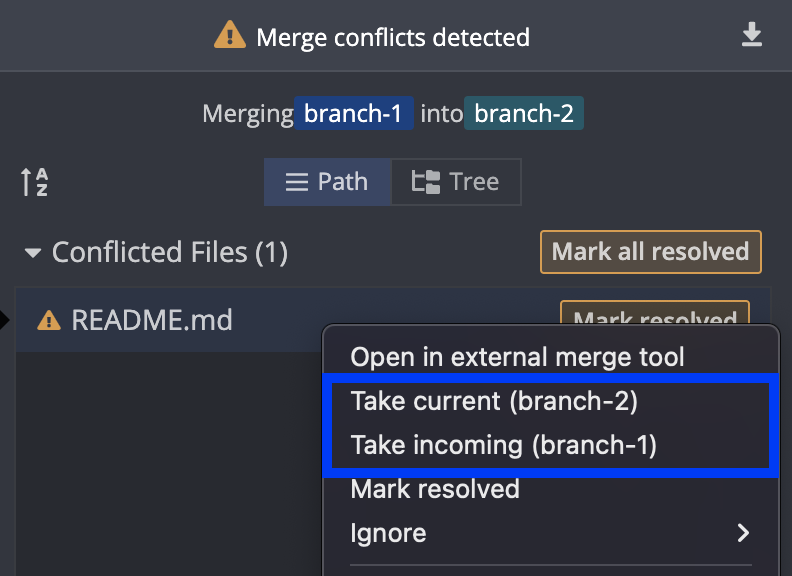
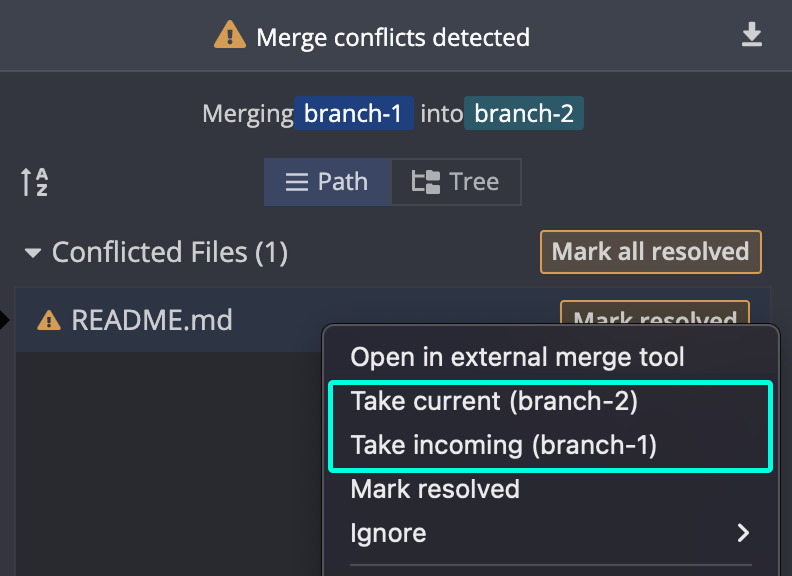
Updated merged images and copy edits

Changed region(s): [[0.3939, 0.625, 1.0, 0.8438]]

diff --git a/gitkraken-desktop/branching-and-merging.md b/gitkraken-desktop/branching-and-merging.md
@@ -13,23 +13,24 @@ Learn how to branch and merge in GitKraken Desktop. 🌳 🔀
     <iframe width='560' height='315' src='https://www.youtube.com/embed/8-qRKyy-v7I?rel=0&vq=hd1080' frameborder='0' allowfullscreen></iframe>
 </div>
 
+
 Looking for a sharable summary? Learn about [how GitKraken solves merge conflicts](https://www.gitkraken.com/developer-problems/merge-conflicts).   
 
 ***
 
 ## Branches
-When starting work on a new feature or bug, <a href="https://gitkraken.com/learn/git/problems/create-git-branch" target="_blank">create a new branch</a>. Right click on any existing commit to create a branch:
+When starting work on a new feature or bug, <a href="https://gitkraken.com/learn/git/problems/create-git-branch" target="_blank">create a new branch</a>. Right-click on any existing commit to create a branch:
 
 <img src="/wp-content/uploads/add-branch-2025.png" srcset="/wp-content/uploads/add-branch@2x.png 2x" class="img-bordered img-responsive center">
 
-A branch is a pointer to a specific commit in the repo, rather than making entire copies of the working directory files.
+A branch is a pointer to a specific commit in the repo.
 
-Branches allow you to isolate new work from other areas of the repository, and consider implementing <a href="/git-workflows-and-extensions/git-flow">GitFlow</a> as a merging strategy.
+Branches allow you to isolate new work from other areas of the repository, and interact with other collaborators. If you're looking for direction,consider implementing <a href="/git-workflows-and-extensions/git-flow">GitFlow</a> as a merging strategy.
 
 ### Checking out branches
 Branch checkout updates files in the working directory to reflect the version defined by that branch.
 
-New commits are added to the checked out branch. If you find yourself on the wrong branch, <a href="/gitkraken-desktop/stashing">stash</a> your changes, switch to the correct branch, and then *pop* the stash.
+New commits are added to the currently checked out branch. If you find yourself on the wrong branch, <a href="/gitkraken-desktop/stashing">stash</a> your changes, switch to the correct branch, and then *pop* the stash.
 
 When you create a new branch, GitKraken Desktop will automatically checkout the branch for you:
 
@@ -38,11 +39,11 @@ When you create a new branch, GitKraken Desktop will automatically checkout the 
     <figcaption>Right click to create a new branch.</figcaption>
 </figure>
 
-To checkout a different branch, double click on the branch label on the left panel or via the graph.  Checkout is also available by right-clicking a branch.
+To checkout a different branch, double-click on the branch label on the Left Panel or via the Commit Graph.  Checkout is also available by right-clicking a branch.
 
 ### Rename a branch
 
-Rename a branch by right-clicking the branch tag in the Commit Graph (or right-click the branch in the branch list on the left panel) and selecting `Rename branch-name`.
+Rename a branch by right-clicking the branch tag in the Commit Graph (or right-click the branch in the branch list on the Left Panel) and selecting `Rename branch-name`.
 
 <img src="/wp-content/uploads/rename-branch.png" srcset="/wp-content/uploads/rename-branch@2x.png 2x" class="img-bordered img-responsive center">
 
@@ -53,9 +54,9 @@ For hardcore keyboard warriors, you can also rename a branch using the Command P
 Note: You can only rename the current branch you are on.
 ### Delete a branch
 
-To <a href="https://gitkraken.com/learn/git/problems/delete-local-git-branch" target="_blank">delete a branch</a>, right-click the branch and select `Delete {branch-name}`. You cannot delete a branch that is checked out.
+To <a href="https://gitkraken.com/learn/git/problems/delete-local-git-branch" target="_blank">delete a branch</a>, right-click the branch and select `Delete {branch-name}`. You cannot delete a branch that is checked out, so be sure to first checkout a different branch to then delete it. 
 
-To delete multiple local branches in the left panel, hold <kbd>Shift</kbd> then click to select a range of branches or hold <kbd>&#8984; | Ctrl</kbd>  then click to select specific branches. Then right-click to access the delete option.
+To delete multiple local branches in the Left Panel, hold <kbd>Shift</kbd> then click to select a range of branches or hold <kbd>&#8984; | Ctrl</kbd>  then click to select specific branches. Then right-click to access the delete option.
 
 <img src="/wp-content/uploads/multi-delete-branches.gif" class="img-bordered img-responsive center">
 
@@ -75,7 +76,7 @@ Drag and drop one branch onto another to initiate a merge, or just right click t
 <img src="/wp-content/uploads/merge-right.png" srcset="/wp-content/uploads/merge-right@2x.png" class="img-bordered img-responsive center">
 
 <div class='callout callout--warning'>
-    <p>Note 📝 - The In-app merge conflict output editor is only available with a <a href="https://gitkraken.com/pricing" target=_blank>Paid</a> license. </p>
+    <p>Note 📝 - The in-app merge conflict output editor is only available with a <a href="https://gitkraken.com/pricing" target=_blank>Paid</a> license. </p>
 </div>
 
 
@@ -113,7 +114,7 @@ Clicking the up and down arrows will move you to the next conflict.
 </div>
 
 <div class='callout callout--warning'>
-    <p>Note 📝 - The In-app merge conflict output editor is only available with a <a href="https://gitkraken.com/pricing" target=_blank>Paid</a> license. </p>
+    <p>Note 📝 - The in-app merge conflict output editor is only available with a <a href="https://gitkraken.com/pricing" target=_blank>Paid</a> license. </p>
 </div>
 
 <figure class='figure center'>
@@ -198,3 +199,4 @@ You can rebase onto a local or remote.
 
 <img src="/wp-content/uploads/select-rebase-sidebar.png" srcset="/wp-content/uploads/select-rebase-sidebar@2x.png" class="img-bordered img-responsive center">
 
+Remember, rebasing rewrites history in exchange for a visually cleaner history. 
